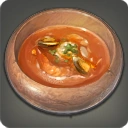
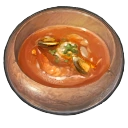
menu.html：菜單圖片全面換成去背版本（心像殘響改用新的去背圖，其餘6道主餐料理也一併換成去背版），視覺更統一

diff --git a/elysium/menu.html b/elysium/menu.html
@@ -142,10 +142,10 @@
         <div class="menu-list">
 
           <div class="menu-row">
-            <div class="menu-row-icon"><img src="https://cdn.jsdelivr.net/gh/elysium-ffxivtc/elysium-ffxivtc.github.io@main/elysium/image/menu/心像殘響.avif" alt="心像殘響" loading="lazy"></div>
+            <div class="menu-row-icon"><img src="https://cdn.jsdelivr.net/gh/elysium-ffxivtc/elysium-ffxivtc.github.io@main/elysium/image/menu/心像殘響.png" alt="心像殘響" loading="lazy"></div>
             <div class="menu-row-body">
               <span class="menu-row-name">心像殘響</span>
-              <p class="menu-row-desc">若一道料理能代表一個人，那麼它便是其靈魂留下的註腳。<br>每位使徒、引路人，甚至司祭與監禮者，都有特餐，歡迎透過此品項支持您喜愛的人。</p>
+              <p class="menu-row-desc">若一道料理能代表一個人，那麼它便是其靈魂留下的註腳。Elysium 的每位成員皆有一道專屬特餐。若有心儀之人，不妨以此為他獻上一份心意。</p>
             </div>
           </div>
 
